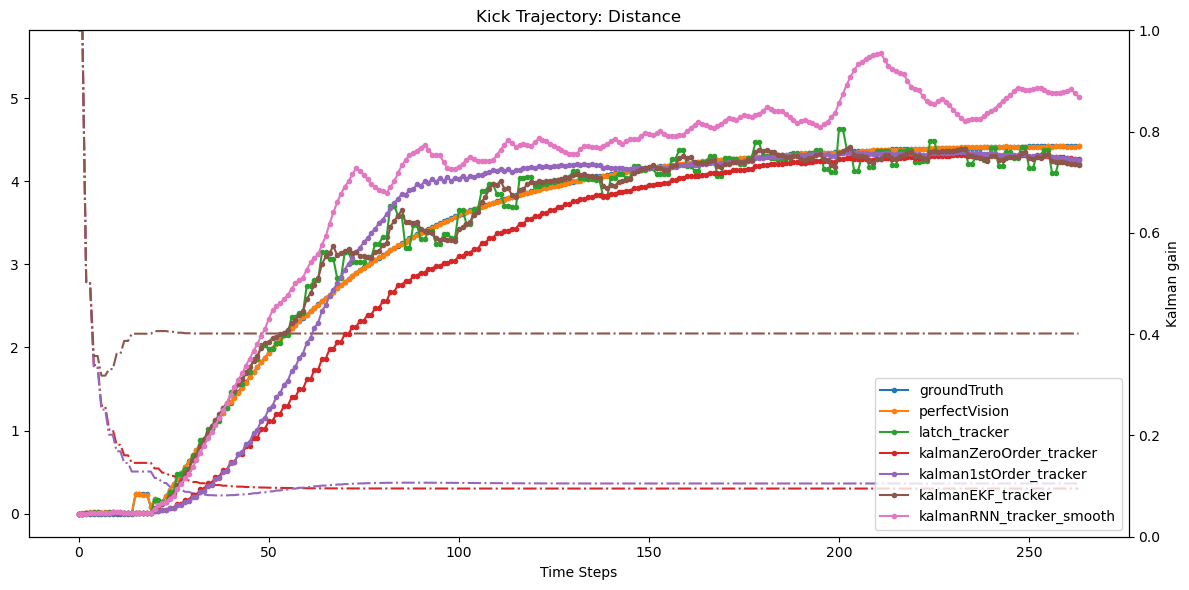
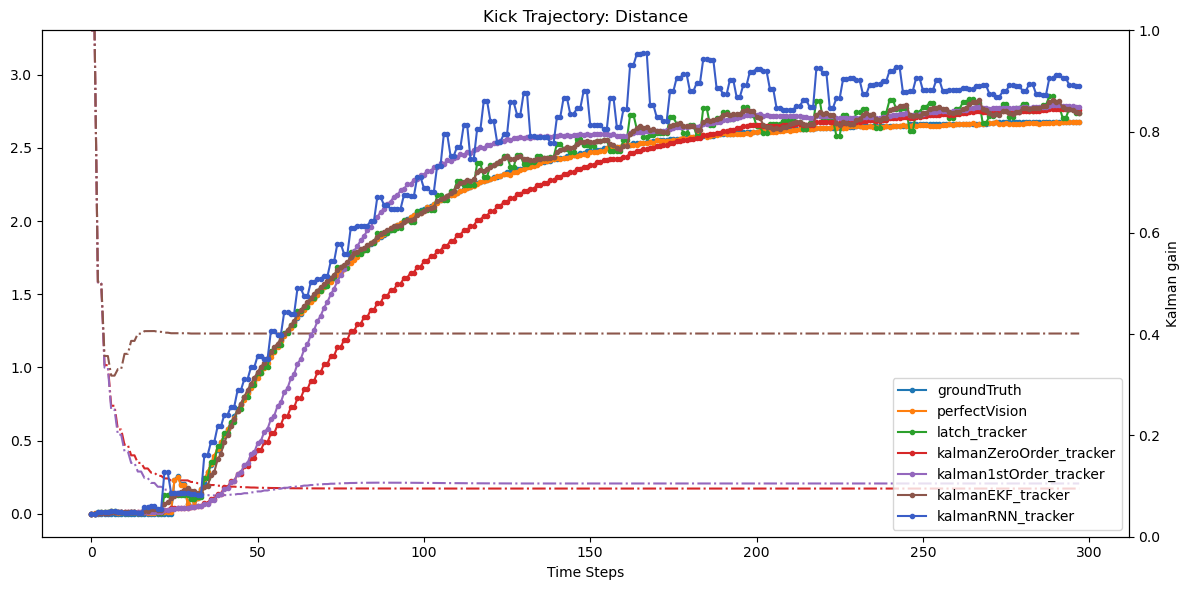
Update eval plots

diff --git a/researchreport.tex b/researchreport.tex
@@ -1324,6 +1324,14 @@ Noise dependant on distance
 
 \begin{figure}[h!]
 \begin{center}
+\includegraphics[width=8cm]{images/tracker_speeds.png}
+\caption{Long lofted kick - Tracker evaluation}
+\label{fig:ekfloftlong}
+\end{center}
+\end{figure}
+
+\begin{figure}[h!]
+\begin{center}
 \includegraphics[width=12cm]{images/eval_ground_short.png}
 \caption{Short ground kick - Tracker evaluation}
 \label{fig:ekfgroundshort}
@@ -1356,22 +1364,13 @@ Noise dependant on distance
 
 \begin{figure}[h!]
 \begin{center}
-\includegraphics[width=8cm]{images/tracker_speeds.png}
-\caption{Long lofted kick - Tracker evaluation}
-\label{fig:ekfloftlong}
-\end{center}
-\end{figure}
-
-Although over estimates. We see for data set error is reduced.
-
-\begin{figure}[h!]
-\begin{center}
-\includegraphics[width=13cm]{images/ekf_error.png}
-\caption{Extended Kalman Filter error this plot is wrong}
+\includegraphics[width=13cm]{images/eval_error.png}
+\caption{Tracker error}
 \label{fig:ekferror}
 \end{center}
 \end{figure}
 
+Although over estimates. We see for data set error is reduced.
 
 %%%%%%%%%%%%%%%%%%%%%%%%%%%%%%%%%%%%%%%%%%%%%%%%%%%%%%%%%%%%%%%%%%%%%%%%%%%%%%%%%%%%%%%%%%%%%%%%
 \chapter{Conclusion}
